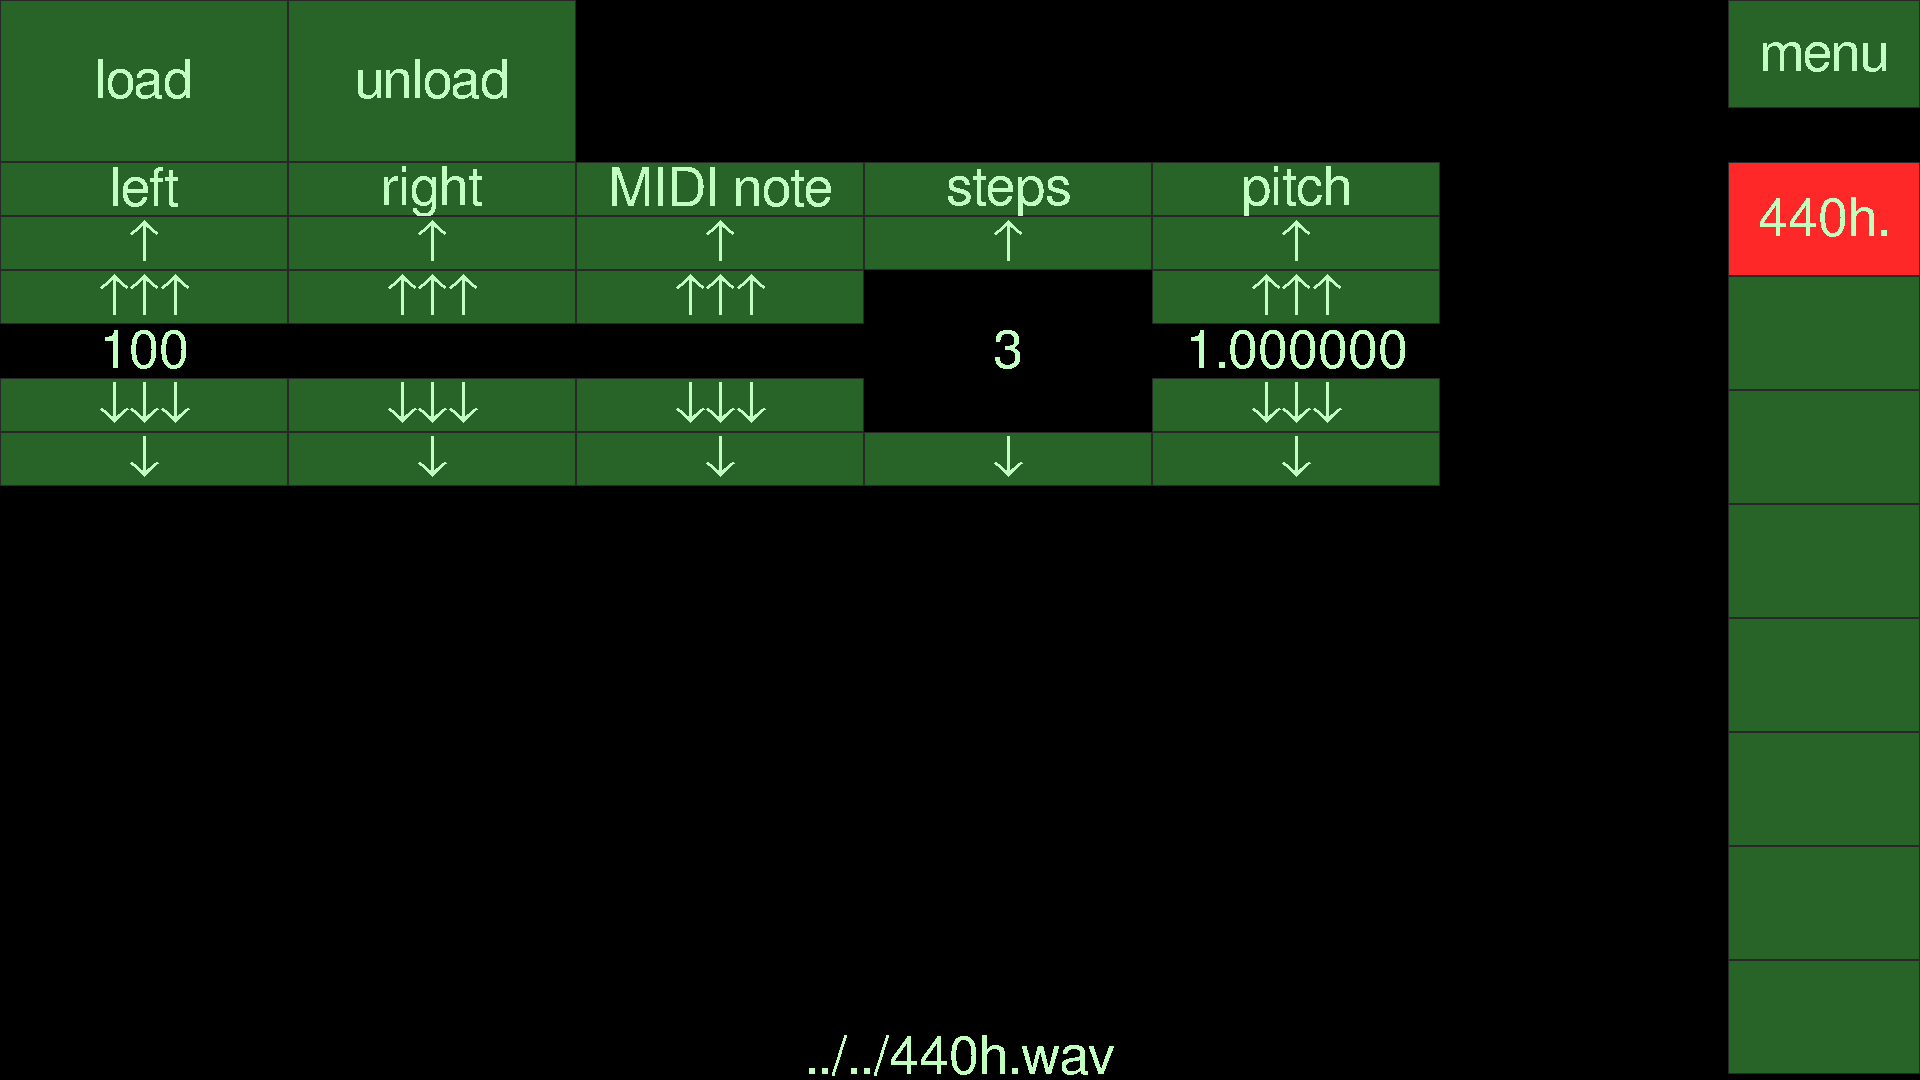
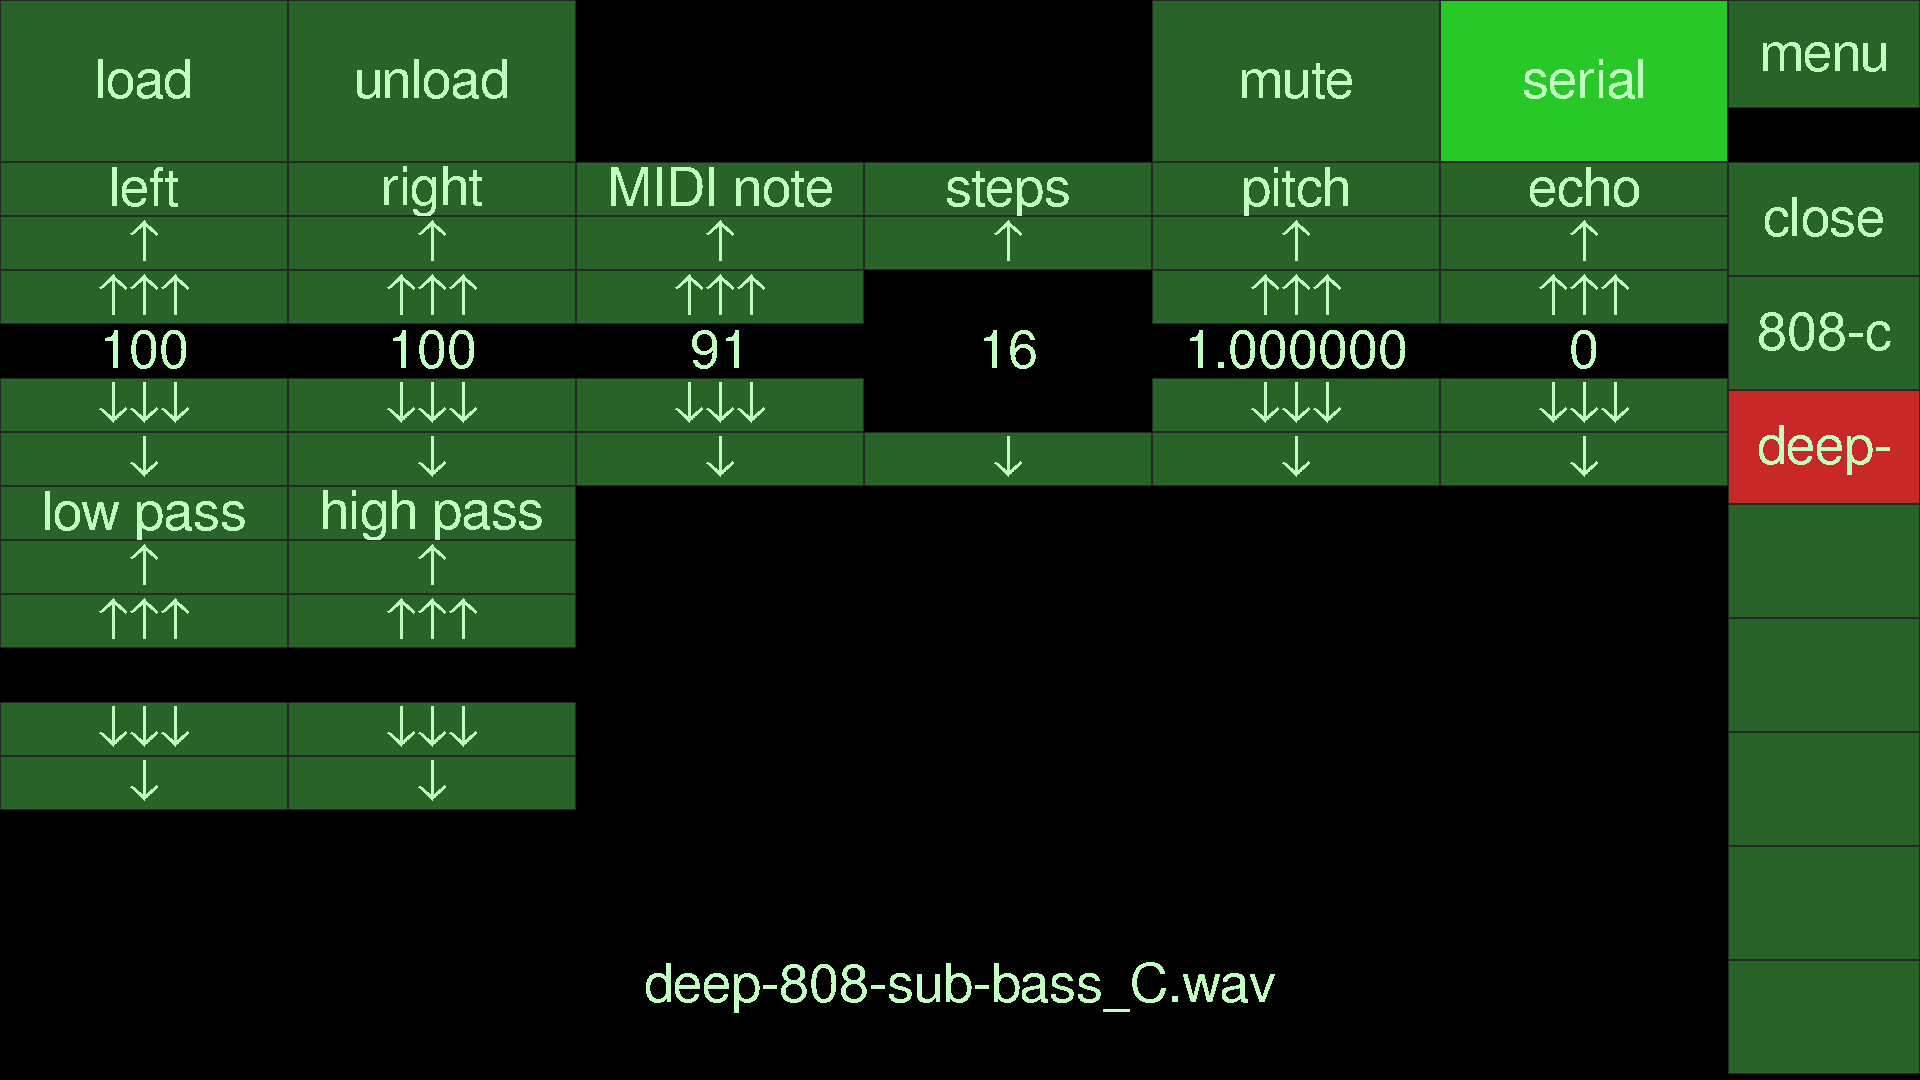
new screenshots

diff --git a/README.md b/README.md
@@ -44,4 +44,8 @@ Pressing the menu-button again brings you back the main-settings screen.
 
 ![settings of a channel](images/kaboem-channel-settings.png)
 
+With a "right click" on a cell, a menu pops up where you can do a few settings specific for that cell.
+
+![settings of one cell](images/kaboem-one-cell-settings.png)
+
 This software was written by Folkert van Heusden. License: MIT.
